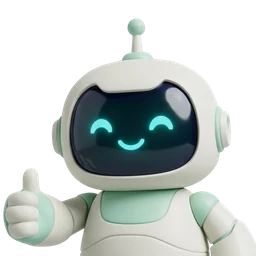
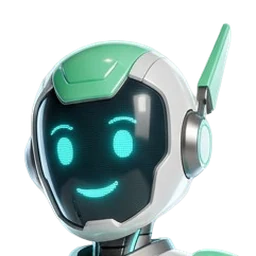
Ще 18 друзів: повні набори для 6–7 (мандрівники) і 8–10 (герої-підлітки, ігровий 3D-стиль)

diff --git a/js/themes.js b/js/themes.js
@@ -6,7 +6,7 @@ const emoji = e => `<span class="emoji-mascot" aria-hidden="true">${e}</span>`;
 const img = (src, cls = '') => `<img class="hero-img ${cls}" src="${src}" alt="" draggable="false">`;
 
 // Друзі ростуть разом з дитиною: age — вікова група (AGE_GROUPS у library.js).
-// 4–5 — плюшеві іграшки, 6–7 — мультяшні мандрівники зі своєю справою, 8–10 — стильні вінілові фігурки.
+// 4–5 — плюшеві іграшки, 6–7 — мультяшні мандрівники зі своєю справою, 8–10 — герої-підлітки (стилізований 3D як в іграх).
 // color — основний колір теми, light — світліший, deep — для кнопок і акцентів
 export const COMPANIONS = [
   { id: 'flopi', name: 'Флопі', who: 'зайчик', img: 'flopi', color: '#a98bf0', light: '#d2c2ff', deep: '#8263e0' },
@@ -25,10 +25,28 @@ export const COMPANIONS = [
   { id: 'mapka', age: '6-7', name: 'Мапка', who: 'лисичка-мандрівниця', img: 'mapka', color: '#f08a3c', light: '#ffc08f', deep: '#d0661b' },
   { id: 'zoryk', age: '6-7', name: 'Зорик', who: 'котик-космонавт', img: 'zoryk', color: '#5b8def', light: '#a9c4ff', deep: '#3a6ad6' },
   { id: 'kmitka', age: '6-7', name: 'Кмітка', who: 'совеня-винахідниця', img: 'kmitka', color: '#2aa69a', light: '#86ddd3', deep: '#13857a' },
-  // 8–10: круті друзі
+  { id: 'slidyk', age: '6-7', name: 'Слідик', who: 'динозаврик-дослідник', img: 'slidyk', color: '#4fb35e', light: '#9ed5a6', deep: '#42964f' },
+  { id: 'farbka', age: '6-7', name: 'Фарбка', who: 'зайчиха-художниця', img: 'farbka', color: '#f07aa8', light: '#f7b6cf', deep: '#ca668d' },
+  { id: 'yunha', age: '6-7', name: 'Юнга', who: 'єнот-пірат', img: 'yunha', color: '#a8743e', light: '#cfb395', deep: '#8d6134' },
+  { id: 'bulka', age: '6-7', name: 'Булька', who: 'видра-дайверка', img: 'bulka', color: '#1fb3ad', light: '#84d5d2', deep: '#1a9691' },
+  { id: 'ryatko', age: '6-7', name: 'Рятко', who: 'ведмедик-рятувальник', img: 'ryatko', color: '#e8463c', light: '#f29994', deep: '#c33b32' },
+  { id: 'veselka', age: '6-7', name: 'Веселка', who: 'поні-фея', img: 'veselka', color: '#b48be8', light: '#d6bff2', deep: '#9775c3' },
+  { id: 'syrnyk', age: '6-7', name: 'Сирник', who: 'мишеня-лицар', img: 'syrnyk', color: '#4f6fd8', light: '#9eb0ea', deep: '#425db5' },
+  { id: 'pyrizhok', age: '6-7', name: 'Пиріжок', who: 'пінгвін-кухар', img: 'pyrizhok', color: '#f59a2b', light: '#fac78a', deep: '#ce8124' },
+  { id: 'boltyk', age: '6-7', name: 'Болтик', who: 'песик-робот', img: 'boltyk', color: '#3fa5e6', light: '#95cef1', deep: '#358bc1' },
+  // 8–10: круті друзі — герої-підлітки в стилі ігрових персонажів
   { id: 'bit', age: '8-10', name: 'Біт', who: 'робот-напарник', img: 'bit', color: '#1fb5d6', light: '#8de2f2', deep: '#0b92b3' },
   { id: 'tin', age: '8-10', name: 'Тінь', who: 'кіт-ніндзя', img: 'tin', color: '#e5484d', light: '#ff9a9d', deep: '#c2272d' },
   { id: 'miksi', age: '8-10', name: 'Міксі', who: 'панда-діджейка', img: 'miksi', color: '#9f7aea', light: '#cbb5ff', deep: '#7c55d6' },
+  { id: 'yaryi', age: '8-10', name: 'Ярий', who: 'дракон', img: 'yaryi', color: '#2fa86b', light: '#8dcfae', deep: '#278d5a' },
+  { id: 'lupa', age: '8-10', name: 'Лупа', who: 'лисиця-детективка', img: 'lupa', color: '#c9773a', light: '#e1b493', deep: '#a96431' },
+  { id: 'flip', age: '8-10', name: 'Фліп', who: 'єнот-скейтер', img: 'flip', color: '#f08c2e', light: '#f7c08c', deep: '#ca7627' },
+  { id: 'bryz', age: '8-10', name: 'Бриз', who: 'акула-серферка', img: 'bryz', color: '#ff6f61', light: '#ffb0a8', deep: '#d65d51' },
+  { id: 'sirko', age: '8-10', name: 'Сірко', who: 'вовк-футболіст', img: 'sirko', color: '#6fb52a', light: '#b0d68a', deep: '#5d9823' },
+  { id: 'piksel', age: '8-10', name: 'Піксель', who: 'кішка-дизайнерка', img: 'piksel', color: '#e85fb0', light: '#f2a7d4', deep: '#c35094' },
+  { id: 'zhar', age: '8-10', name: 'Жар', who: 'фенікс', img: 'zhar', color: '#f2542d', light: '#f8a18c', deep: '#cb4726' },
+  { id: 'kosmo', age: '8-10', name: 'Космо', who: 'прибулець-дослідник', img: 'kosmo', color: '#8f6ee8', light: '#c1aff2', deep: '#785cc3' },
+  { id: 'atom', age: '8-10', name: 'Атом', who: 'сова-вчена', img: 'atom', color: '#4f9e3a', light: '#9eca93', deep: '#428531' },
 ].map(c => ({ age: '4-5', ...c }));
 export const COMPANION_AGES = ['4-5', '6-7', '8-10'];
 export const ageIndex = a => Math.max(0, COMPANION_AGES.indexOf(a));

diff --git a/CLAUDE.md b/CLAUDE.md
@@ -28,6 +28,7 @@
 
 ## App Store (у роботі з 15.11.2026)
 - **Компаньйони (з v24):** дитина обирає друга (онбординг, тап по героєві в шапці, налаштування) — `COMPANIONS` у themes.js, поле `settings.theme` = id компаньйона (старі `toys/kitty/space/forest` мапляться в `themeId`). Колір теми — від компаньйона (`applyColors` → `--tab/--tab-2/--tab-deep`). 12 героїв: Флопі, Мусі + 10 оригінальних плюшевих (Magnific, фон прибрано, `tools/cut_heroes.py` → `assets/heroes/<img>.webp`; круглі аватари з усією головою — `tools/make_avatars.py` → `<img>-avatar.webp`, межа голови (частка висоти): flopi .30, monkey .30, leo .40, dino .36, pingo .38, bublik .36, rusia .42, zirka .42, mur .40, bambu .42, khvylia .42, iskra .42). Нових героїв не копіювати з чужих ігор/брендів. Оформлення — `css/candy.css` поверх app.css, у дусі iOS (з v28): світлий фон з відтінком друга, білі картки (радіуси 22/16/12, ледь помітна тінь), колір друга лише як акцент, типографіка iOS (34/22/17/13, жирність 700/600), segmented control, tab bar. Не повертати насичені градієнти, скло на картках, тіні під текстом — власник вважає це «колхозом».
+- **Друзі за віком (з v30):** `COMPANIONS` має поле `age` ('4-5' плюшеві / '6-7' мультяшні мандрівники / '8-10' герої-підлітки в стилі ігрових персонажів), по 12 на вік. Вибір друга — вкладки за віком; коли батьки підняли вік, а друг «молодший», дитині один раз показується «Ти підросла!» (`settings.friendAgeSeen`). Дитина може перейменувати друга — `settings.friendNames {id: ім'я}`, показ через `friendName(c, s)`. Межі голови для аватарів нових героїв: 6–7 ≈ .45–.55, 8–10 ≈ .17–.25 (бриз — без дошки, вирізати перед make_avatars).
 - Мета — публічний застосунок. Герої — **Флопі** (сірий вухастий зайчик, менший) і **Мусі** (веселкова мавпочка) — за справжніми іграшками Мії. Ім’я — `HEROES` у themes.js. Тема `toys` (стара `kitty` мапиться на неї через `themeId`). Картинки `assets/heroes/` (повний зріст + голівки, вирізані з Magnific-генерації; `pair-square.jpg` — кадр для відео). Відео святкування `assets/cele-heroes.mp4` (MiniMax H3 Turbo, старт=кінець). Іконка `icons/icon-1024.png` → також `ios/.../AppIcon-512@2x.png`. Hello Kitty / Kuromi з коду прибрані.
 - Нативна обгортка: Capacitor 8 (`capacitor.config.json`, appId `ua.minimoney.app`, папка `ios/`, SPM). `npm run build:www` збирає `www/` (Firebase SDK локально в `www/vendor/firebase`, бо в нативі `location.protocol === 'capacitor:'`), `npm run ios:sync` → Xcode на Mac.
 - `privacy.html` і `support.html` (uk + en, стиль `css/page.css`) — для App Store: https://yegoriy90.github.io/mini_money/privacy.html, …/support.html. Посилання — внизу батьківських налаштувань (за PIN = батьківський бар'єр; у нативі — повна адреса, `SITE` в app.js). Контакт поки — GitHub Issues (публічні), краще окрема пошта. При зміні збору даних — оновлювати політику й дату.

diff --git a/docs/appstore.md b/docs/appstore.md
@@ -31,7 +31,7 @@ Mini Money — перша скарбничка для дітей 4–10 рокі
 • Щоденні звички (почистити зубки, застелити ліжко) дають сердечка, а п'ять сердечок — монетку.
 
 Друг-компаньйон
-Дитина обирає собі друга з 12 плюшевих героїв — зайчика, левеня, динозаврика, пінгвіня та інших. Від друга залежать кольори застосунку, а сам він радіє кожній виконаній справі.
+Дитина обирає собі друга й може дати йому власне ім'я. Друзі ростуть разом з дитиною: для 4–5 років — плюшеві іграшки, для 6–7 — мандрівники зі своєю справою, для 8–10 — круті герої-підлітки. Від друга залежать кольори застосунку, а сам він радіє кожній виконаній справі.
 
 Для батьків
 • Батьківський режим за PIN: ціни, справи, підтвердження, налаштування.
@@ -66,7 +66,7 @@ How it works
 • Daily habits (brush teeth, make the bed) earn hearts; five hearts make a coin.
 
 A companion friend
-Kids choose one of 12 plush friends — a bunny, a lion cub, a little dinosaur, a penguin and more. The friend sets the app's colors and cheers every finished chore.
+Kids choose a friend and can give it their own name. Friends grow up with the child: plush toys at 4–5, little adventurers at 6–7 and cool teen heroes at 8–10. The friend sets the app's colors and cheers every finished chore.
 
 For parents
 • PIN-protected parent mode: prices, chores, approvals, settings.
